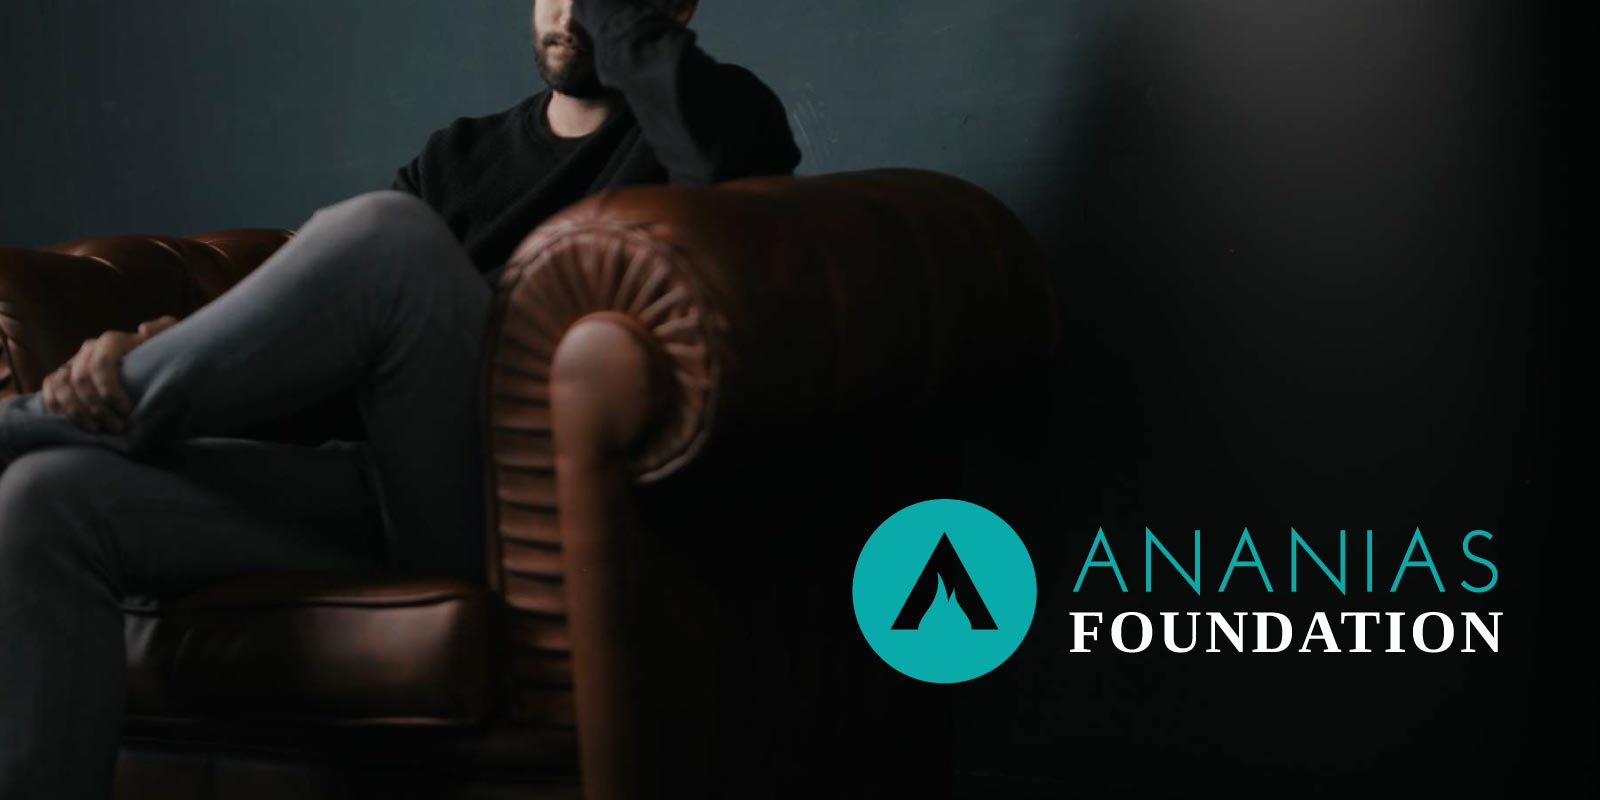
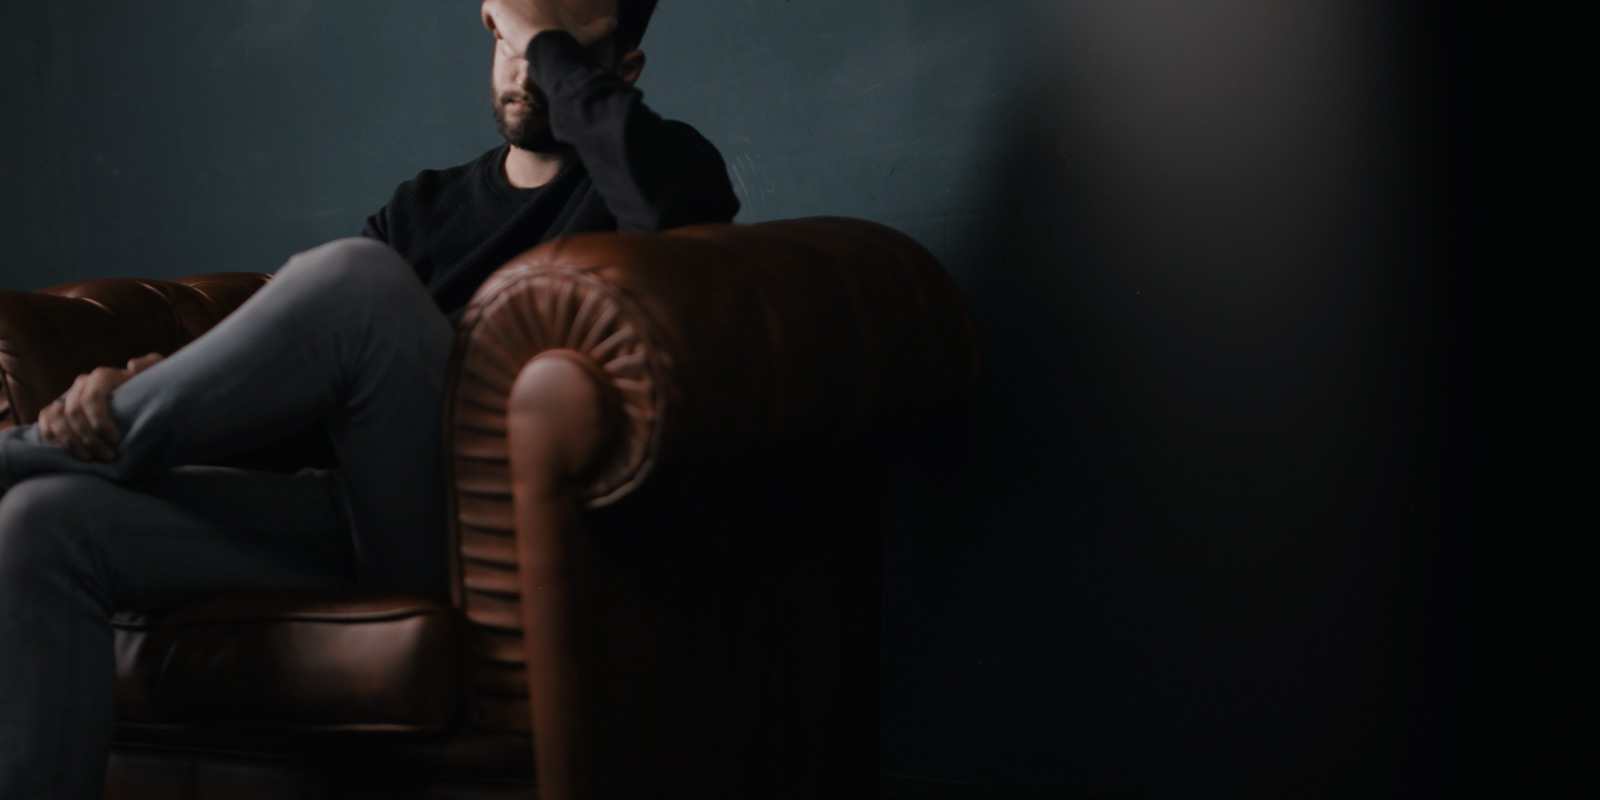
section updates

diff --git a/css/portfolio.css b/css/portfolio.css
@@ -1,1 +1,1 @@
-abbr,address,article,aside,audio,b,blockquote,body,canvas,caption,cite,code,dd,del,details,dfn,div,dl,dt,em,fieldset,figcaption,figure,footer,form,h1,h2,h3,h4,h5,h6,header,hgroup,html,i,iframe,img,ins,kbd,label,legend,li,mark,menu,nav,object,ol,p,pre,q,samp,section,small,span,strong,sub,summary,sup,table,tbody,td,tfoot,th,thead,time,tr,ul,var,video{margin:0;padding:0;border:0;outline:0;font-size:100%;vertical-align:baseline;background:0 0}body{line-height:1}article,aside,details,figcaption,figure,footer,header,hgroup,main,menu,nav,section{display:block}nav ul{list-style:none}blockquote,q{quotes:none}blockquote:after,blockquote:before,q:after,q:before{content:'';content:none}a{margin:0;padding:0;font-size:100%;vertical-align:baseline;background:0 0}table{border-collapse:collapse;border-spacing:0}hr{display:block;height:1px;margin:1em 0;padding:0;border:0;border-top:1px solid #ccc}button,input,select,textarea{margin:0;outline:0 !important}button,input,select{vertical-align:middle}*,*:before,*:after{-webkit-box-sizing:border-box;box-sizing:border-box}html{height:100%;height:100vh;font-size:62.5%}body{min-height:100%;font-size:1.6rem;font-family:'Mukta', sans-serif;line-height:1.5;font-weight:400;background-color:#FFF;color:#333;-webkit-font-smoothing:antialiased;-moz-osx-font-smoothing:grayscale;text-shadow:1px 1px 1px rgba(0,0,0,0.004)}@media all and (min-width: 800px){body{font-size:2.1rem}}img{border:0;display:block;max-width:100%}h1,h2,h3{margin:0 0 0.5rem 0;padding:0;line-height:1.05;font-weight:700}h1{font-size:2.8rem}@media all and (min-width: 650px){h1{font-size:4.8rem}}h2{font-size:2.8rem}@media all and (min-width: 650px){h2{font-size:4.8rem}}h3{font-size:2.8rem}h4{font-size:2.1rem;line-height:1.25}h5{font-size:2rem}h6{font-size:2rem}sup,sub{font-size:0.7rem}sup{vertical-align:super}sub{vertical-align:sub}b,strong{font-weight:bold;font-weight:600}i,em{font-style:italic}hr{width:100%;height:1px;border:0;background-color:#DDD}svg{position:relative;max-width:100%;max-height:100%;height:auto;display:block}main{height:100vh;display:-webkit-box;display:-ms-flexbox;display:flex;overflow-x:auto;overflow-y:hidden;-webkit-scroll-snap-destination:50% 50%;-ms-scroll-snap-destination:50% 50%;scroll-snap-destination:50% 50%;-webkit-scroll-snap-points-x:repeat(100vw);-ms-scroll-snap-points-x:repeat(100vw);scroll-snap-points-x:repeat(100vw);-webkit-scroll-snap-type:mandatory;-ms-scroll-snap-type:mandatory;scroll-snap-type:mandatory;-webkit-scroll-snap-type:x mandatory;-ms-scroll-snap-type:x mandatory;scroll-snap-type:x mandatory;-webkit-overflow-scrolling:touch}@media all and (min-width: 800px){main{-webkit-box-orient:vertical;-webkit-box-direction:normal;-ms-flex-direction:column;flex-direction:column;overflow-x:hidden;overflow-y:auto;-webkit-scroll-snap-points-y:repeat(100vh);-ms-scroll-snap-points-y:repeat(100vh);scroll-snap-points-y:repeat(100vh);-webkit-scroll-snap-type:mandatory;-ms-scroll-snap-type:mandatory;scroll-snap-type:mandatory;-webkit-scroll-snap-type:y mandatory;-ms-scroll-snap-type:y mandatory;scroll-snap-type:y mandatory}}section{height:100vh;width:100vw;-webkit-box-flex:1;-ms-flex:1 0 100vw;flex:1 0 100vw;padding:3rem;font-size:1.8rem;-webkit-scroll-snap-coordinate:50% 50%;-ms-scroll-snap-coordinate:50% 50%;scroll-snap-coordinate:50% 50%;scroll-snap-align:center}@media all and (min-width: 800px){section{-webkit-box-flex:1;-ms-flex:1 0 100vh;flex:1 0 100vh;font-size:2.1rem;padding:6rem}}#cover{position:-webkit-sticky;position:sticky;top:0;left:0;z-index:1;background-image:url("../work/images/ryoung-working.jpg");background-size:cover;background-position:center top;background-color:lightsteelblue;background-blend-mode:soft-light;display:-webkit-box;display:-ms-flexbox;display:flex;-webkit-box-orient:vertical;-webkit-box-direction:normal;-ms-flex-direction:column;flex-direction:column;-webkit-box-pack:end;-ms-flex-pack:end;justify-content:flex-end}#cover h1{display:-webkit-box;display:-ms-flexbox;display:flex;-ms-flex-wrap:wrap;flex-wrap:wrap;-webkit-box-align:center;-ms-flex-align:center;align-items:center}#cover h1 span{display:block}#cover h1 #name{margin-right:4.5rem}#cover h1 .txt-small{text-transform:uppercase;font-size:1.6rem;font-weight:800}#cover h1 .txt-small:first-child{-webkit-box-flex:1;-ms-flex:1 0 100%;flex:1 0 100%;width:100%;font-size:1.4rem;margin-bottom:0.5rem}#cover h1 .txt-small:last-child{margin-top:0.5rem}@media all and (min-width: 650px){#cover{-webkit-box-pack:center;-ms-flex-pack:center;justify-content:center;padding-bottom:3rem;padding-top:15rem}}.sub_section{position:relative;z-index:2;color:white;-webkit-box-shadow:0px -5px 20px rgba(0,0,0,0.5);box-shadow:0px -5px 20px rgba(0,0,0,0.5);background-repeat:no-repeat;background-size:cover}.sub_section a{position:relative;z-index:1;text-decoration:none;color:#FFF;height:100%;display:-webkit-box;display:-ms-flexbox;display:flex;-webkit-box-align:start;-ms-flex-align:start;align-items:flex-start;padding-top:6rem}@media all and (min-width: 650px){.sub_section a{-webkit-box-align:center;-ms-flex-align:center;align-items:center;padding-top:0}}.sub_section .project_desc{width:66.666%}.sub_section .project_desc h2{margin-bottom:1.5rem}.sub_section.tr{background-image:url("../work/images/tr-bg.jpg");background-position:left center}.sub_section.tr:before{content:"";display:block;position:absolute;top:0;left:0;height:100%;width:100%;background-color:black;opacity:0.75;z-index:0}.sub_section.af{background-image:url("../work/images/af-bg.jpg");background-position:right center}.sub_section.sub3{background-color:indigo}
+abbr,address,article,aside,audio,b,blockquote,body,canvas,caption,cite,code,dd,del,details,dfn,div,dl,dt,em,fieldset,figcaption,figure,footer,form,h1,h2,h3,h4,h5,h6,header,hgroup,html,i,iframe,img,ins,kbd,label,legend,li,mark,menu,nav,object,ol,p,pre,q,samp,section,small,span,strong,sub,summary,sup,table,tbody,td,tfoot,th,thead,time,tr,ul,var,video{margin:0;padding:0;border:0;outline:0;font-size:100%;vertical-align:baseline;background:0 0}body{line-height:1}article,aside,details,figcaption,figure,footer,header,hgroup,main,menu,nav,section{display:block}nav ul{list-style:none}blockquote,q{quotes:none}blockquote:after,blockquote:before,q:after,q:before{content:'';content:none}a{margin:0;padding:0;font-size:100%;vertical-align:baseline;background:0 0}table{border-collapse:collapse;border-spacing:0}hr{display:block;height:1px;margin:1em 0;padding:0;border:0;border-top:1px solid #ccc}button,input,select,textarea{margin:0;outline:0 !important}button,input,select{vertical-align:middle}*,*:before,*:after{-webkit-box-sizing:border-box;box-sizing:border-box}html{height:100%;height:100vh;font-size:62.5%}body{min-height:100%;font-size:1.6rem;font-family:'Mukta', sans-serif;line-height:1.5;font-weight:400;background-color:#FFF;color:#333;-webkit-font-smoothing:antialiased;-moz-osx-font-smoothing:grayscale;text-shadow:1px 1px 1px rgba(0,0,0,0.004)}@media all and (min-width: 800px){body{font-size:2.1rem}}img{border:0;display:block;max-width:100%}h1,h2,h3{margin:0 0 0.5rem 0;padding:0;line-height:1.05;font-weight:700}h1{font-size:2.8rem}@media all and (min-width: 650px){h1{font-size:4.8rem}}h2{font-size:2.8rem}@media all and (min-width: 650px){h2{font-size:4.8rem}}h3{font-size:2.8rem}h4{font-size:2.1rem;line-height:1.25}h5{font-size:2rem}h6{font-size:2rem}sup,sub{font-size:0.7rem}sup{vertical-align:super}sub{vertical-align:sub}b,strong{font-weight:bold;font-weight:600}i,em{font-style:italic}hr{width:100%;height:1px;border:0;background-color:#DDD}svg{position:relative;max-width:100%;max-height:100%;height:auto;display:block}main{height:100vh;display:-webkit-box;display:-ms-flexbox;display:flex;overflow-x:auto;overflow-y:hidden;-webkit-scroll-snap-destination:50% 50%;-ms-scroll-snap-destination:50% 50%;scroll-snap-destination:50% 50%;-webkit-scroll-snap-points-x:repeat(100vw);-ms-scroll-snap-points-x:repeat(100vw);scroll-snap-points-x:repeat(100vw);-webkit-scroll-snap-type:mandatory;-ms-scroll-snap-type:mandatory;scroll-snap-type:mandatory;-webkit-scroll-snap-type:x mandatory;-ms-scroll-snap-type:x mandatory;scroll-snap-type:x mandatory;-webkit-overflow-scrolling:touch}@media all and (min-width: 800px){main{-webkit-box-orient:vertical;-webkit-box-direction:normal;-ms-flex-direction:column;flex-direction:column;overflow-x:hidden;overflow-y:auto;-webkit-scroll-snap-points-y:repeat(100vh);-ms-scroll-snap-points-y:repeat(100vh);scroll-snap-points-y:repeat(100vh);-webkit-scroll-snap-type:mandatory;-ms-scroll-snap-type:mandatory;scroll-snap-type:mandatory;-webkit-scroll-snap-type:y mandatory;-ms-scroll-snap-type:y mandatory;scroll-snap-type:y mandatory}}section{overflow:hidden;height:100vh;width:100vw;-webkit-box-flex:1;-ms-flex:1 0 100vw;flex:1 0 100vw;padding:3rem;font-size:1.8rem;-webkit-scroll-snap-coordinate:50% 50%;-ms-scroll-snap-coordinate:50% 50%;scroll-snap-coordinate:50% 50%;scroll-snap-align:center}@media all and (min-width: 800px){section{-webkit-box-flex:1;-ms-flex:1 0 100vh;flex:1 0 100vh;font-size:2.1rem;padding:6rem}}#cover{position:-webkit-sticky;position:sticky;top:0;left:0;z-index:1;background-image:url("../work/images/ryoung-working.jpg");background-size:cover;background-position:center top;background-color:lightsteelblue;background-blend-mode:soft-light;display:-webkit-box;display:-ms-flexbox;display:flex;-webkit-box-orient:vertical;-webkit-box-direction:normal;-ms-flex-direction:column;flex-direction:column;-webkit-box-pack:end;-ms-flex-pack:end;justify-content:flex-end}#cover h1{display:-webkit-box;display:-ms-flexbox;display:flex;-ms-flex-wrap:wrap;flex-wrap:wrap;-webkit-box-align:center;-ms-flex-align:center;align-items:center}#cover h1 span{display:block}#cover h1 #name{margin-right:4.5rem}#cover h1 .txt-small{text-transform:uppercase;font-size:1.6rem;font-weight:800}#cover h1 .txt-small:first-child{-webkit-box-flex:1;-ms-flex:1 0 100%;flex:1 0 100%;width:100%;font-size:1.4rem;margin-bottom:0.5rem}#cover h1 .txt-small:last-child{margin-top:0.5rem}@media all and (min-width: 650px){#cover{-webkit-box-pack:center;-ms-flex-pack:center;justify-content:center;padding-bottom:3rem;padding-top:15rem}}.sub_section{position:relative;z-index:2;color:white;-webkit-box-shadow:0px -5px 20px rgba(0,0,0,0.5);box-shadow:0px -5px 20px rgba(0,0,0,0.5);background-repeat:no-repeat;background-size:cover}.sub_section a{position:relative;z-index:1;text-decoration:none;color:#FFF;height:100%;display:-webkit-box;display:-ms-flexbox;display:flex;-webkit-box-align:start;-ms-flex-align:start;align-items:flex-start;padding-top:6rem}@media all and (min-width: 650px){.sub_section a{-webkit-box-align:center;-ms-flex-align:center;align-items:center;padding-top:0}}.sub_section .project_desc{width:66.666%}.sub_section .project_desc h2{margin-bottom:1.5rem}.sub_section.tr{background-image:url("../work/images/tr-bg.jpg");background-position:left center}.sub_section.tr:before{content:"";display:block;position:absolute;top:0;left:0;height:100%;width:100%;background-color:black;opacity:0.75;z-index:0}.sub_section.af{background-image:url("../work/images/af-bg.jpg");background-position:left}@media all and (min-width: 800px){.sub_section.af{background-position:right center}}.sub_section.af:before{content:"";display:block;position:absolute;bottom:6rem;right:3rem;height:8rem;width:26rem;background-image:url("../work/images/af-logo.png");background-position:center;background-size:contain;background-repeat:no-repeat;z-index:0}@media all and (min-width: 800px){.sub_section.af:before{right:6rem;bottom:6rem;height:13rem;width:46rem}}.sub_section.bh{background-color:#827d00}@media all and (min-width: 800px){.sub_section.bh{background-position:right center}}.sub_section.bh:before{content:"";display:block;position:absolute;bottom:-6rem;right:3rem;height:34rem;width:40rem;background-image:url("../work/images/bh-phone.png");background-position:center;background-size:contain;background-repeat:no-repeat;z-index:0;-webkit-filter:drop-shadow(-10px 20px 10px rgba(0,0,0,0.35));filter:drop-shadow(-10px 20px 10px rgba(0,0,0,0.35))}@media all and (min-width: 800px){.sub_section.bh:before{right:-10rem;top:50%;-webkit-transform:translateY(-50%);transform:translateY(-50%);height:47rem;width:55rem}}

diff --git a/css/portfolio.scss b/css/portfolio.scss
@@ -143,6 +143,7 @@ main {
 }
 
 section {
+	overflow: hidden;
 	height: $height;
 	width: $width;
 	flex: 1 0 $width;
@@ -261,10 +262,64 @@ section {
 		
 	&.af {
 		background-image: url("../work/images/af-bg.jpg");
-		background-position: right center;
+		background-position: left;
+
+		@media all and (min-width: 800px) {
+			background-position: right center;
+		}
+
+		&:before {
+			content: "";
+			display: block;
+			position: absolute;
+			bottom: 6rem;
+			right: 3rem;
+			height: 8rem;
+			width: 26rem;
+			background-image: url("../work/images/af-logo.png");
+			background-position: center;
+			background-size: contain;
+			background-repeat: no-repeat;
+			z-index: 0;
+
+			@media all and (min-width: 800px) {
+				right: 6rem;
+				bottom: 6rem;
+				height: 13rem;
+				width: 46rem;
+			}
+		}
 	}
 		
-	&.sub3 {
-		background-color: indigo;
+	&.bh {
+		background-color: #827d00;
+
+		@media all and (min-width: 800px) {
+			background-position: right center;
+		}
+
+		&:before {
+			content: "";
+			display: block;
+			position: absolute;
+			bottom: -6rem;
+			right: 3rem;
+			height: 34rem;
+			width: 40rem;
+			background-image: url("../work/images/bh-phone.png");
+			background-position: center;
+			background-size: contain;
+			background-repeat: no-repeat;
+			z-index: 0;
+			filter: drop-shadow(-10px 20px 10px rgba(0,0,0,0.35));
+
+			@media all and (min-width: 800px) {
+				right: -10rem;
+				top: 50%;
+				transform: translateY(-50%);
+				height: 47rem;
+				width: 55rem;
+			}
+		}
 	}
 }

diff --git a/work/index.html b/work/index.html
@@ -7,7 +7,7 @@
   <meta name="description" content="Welcome to the personal portfolio of Ryan Young, web designer and front end developer in Des Moines, Iowa.">
   <meta name="viewport" content="width=device-width, initial-scale=1">
 
-  <link rel="stylesheet" href="/css/portfolio.css">
+  <link rel="stylesheet" href="../css/portfolio.css">
   <link href="https://fonts.googleapis.com/css?family=Mukta:400,700,800" rel="stylesheet">
   <script src="https://code.jquery.com/jquery-3.1.1.min.js" integrity="sha256-hVVnYaiADRTO2PzUGmuLJr8BLUSjGIZsDYGmIJLv2b8=" crossorigin="anonymous"></script>
 </head>
@@ -36,7 +36,7 @@
         </div>
       </a>
     </section>
-    <section class="sub_section sub3">
+    <section class="sub_section bh">
       <a href="/work/project.html">
         <div class="project_desc">
           <h2>Third Section Subheader</h2>
